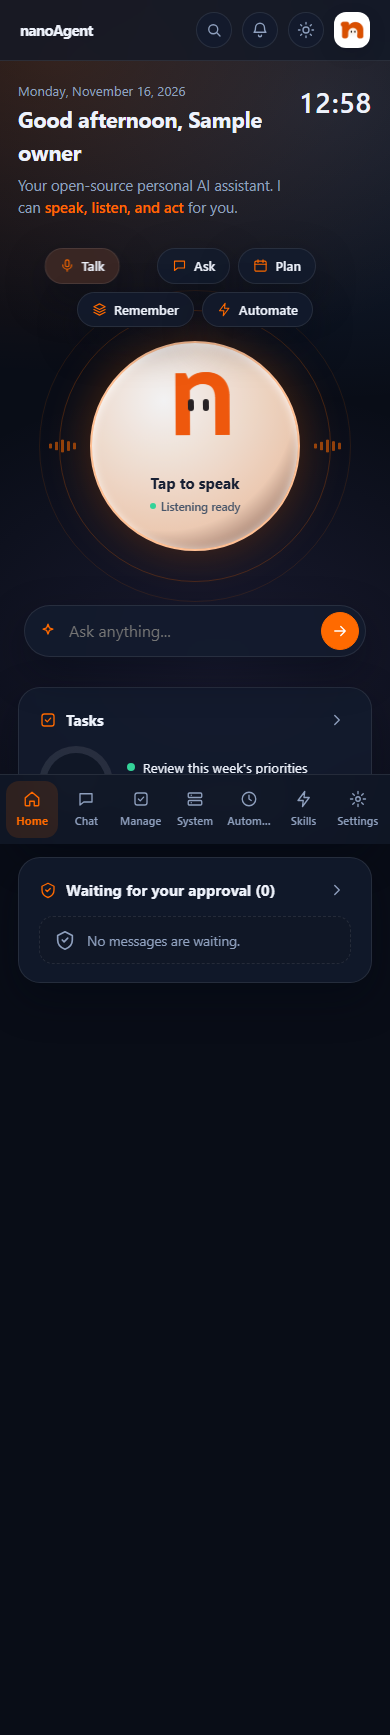
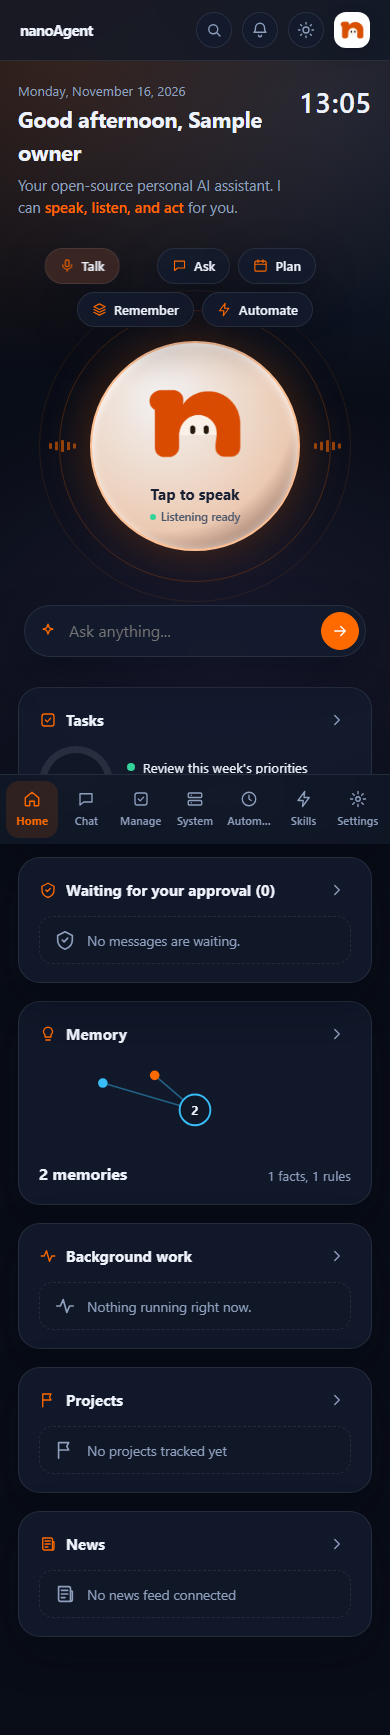
Use branded mascot in dashboard centerpiece

diff --git a/src/nanoagent/gateway/static/dashboard.css b/src/nanoagent/gateway/static/dashboard.css
@@ -486,6 +486,9 @@ pre {
 }
 
 @media (min-width: 1080px) {
+  main#view:has(.jv-grid) { padding-top: 48px; }
+  .jv-head { margin-bottom: 76px; }
+  .jv-bottom { margin-top: 64px; }
   .jv-grid {
     grid-template-columns: minmax(250px, 0.9fr) minmax(380px, 1.45fr) minmax(250px, 0.9fr);
     grid-template-areas:
@@ -626,22 +629,17 @@ pre {
 }
 
 .jv-orb:hover { transform: scale(1.025); }
-.assistant-mascot { position: relative; display: block; width: 104px; height: 91px; flex: none; }
-.assistant-letter { position: absolute; inset: -43px 0 0; color: #ee580d; font: 900 118px/1 "Arial Rounded MT Bold", "Trebuchet MS", system-ui, sans-serif; letter-spacing: -.13em; text-shadow: inset 0 2px #ffb16c, 0 3px 9px #d84c2833; }
-.assistant-eyes { position: absolute; display: flex; gap: 9px; left: 45px; top: 22px; }
-.assistant-eyes i { width: 6px; height: 12px; border-radius: 999px; background: #272124; transform-origin: center; }
+.assistant-mascot { position: relative; display: block; width: 126px; height: 112px; flex: none; }
+.assistant-logo { display: block; width: 100%; height: 100%; object-fit: contain; }
 .assistant-working { position: absolute; display: none; gap: 4px; right: -11px; top: 5px; }
 .assistant-working i { width: 5px; height: 5px; border-radius: 50%; background: #f76b25; }
 .jv-orb[data-state=thinking] .assistant-working, .jv-orb[data-working=true] .assistant-working { display: flex; }
-.jv-orb[data-state=listening] .assistant-eyes i { background: #178d71; }
 @media (prefers-reduced-motion: no-preference) {
   .assistant-mascot { animation: mascot-breathe 3.8s ease-in-out infinite; }
-  .assistant-eyes i { animation: mascot-blink 5.6s infinite; }
   .jv-orb[data-state=thinking] .assistant-working i, .jv-orb[data-working=true] .assistant-working i { animation: mascot-dot 1s ease-in-out infinite alternate; }
   .assistant-working i:nth-child(2) { animation-delay: .18s; }
   .assistant-working i:nth-child(3) { animation-delay: .36s; }
   @keyframes mascot-breathe { 50% { transform: translateY(-3px) rotate(-1deg); } }
-  @keyframes mascot-blink { 0%, 93%, 97%, 100% { transform: scaleY(1); } 95% { transform: scaleY(.12); } }
   @keyframes mascot-dot { to { opacity: .25; transform: translateY(-5px); } }
 }
 .jv-orb strong { font-size: 0.94rem; font-weight: 700; line-height: 1.1; }

diff --git a/src/nanoagent/gateway/static/console.js b/src/nanoagent/gateway/static/console.js
@@ -239,8 +239,7 @@ function waveBars(n = 5) {
 }
 function assistantMascot() {
   return h("span", { class: "assistant-mascot", "aria-hidden": "true" },
-    h("span", { class: "assistant-letter", text: "n" }),
-    h("span", { class: "assistant-eyes" }, h("i"), h("i")),
+    h("img", { class: "assistant-logo", src: "/static/mascot-n.png", alt: "" }),
     h("span", { class: "assistant-working" }, h("i"), h("i"), h("i")));
 }
 async function vHome() {

diff --git a/src/nanoagent/gateway/app.py b/src/nanoagent/gateway/app.py
@@ -121,7 +121,7 @@ def create_app() -> FastAPI:
 
     @app.get("/static/{name}")
     async def static(name: str):
-        if name not in ("console.js", "dashboard.css", "favicon.png", "logo-icon.png"):
+        if name not in ("console.js", "dashboard.css", "favicon.png", "logo-icon.png", "mascot-n.png"):
             raise HTTPException(404)
         data = resources.files("nanoagent").joinpath("gateway", "static", name).read_bytes()
         media_type = "text/css" if name.endswith(".css") else "application/javascript" if name.endswith(".js") else "image/png"
